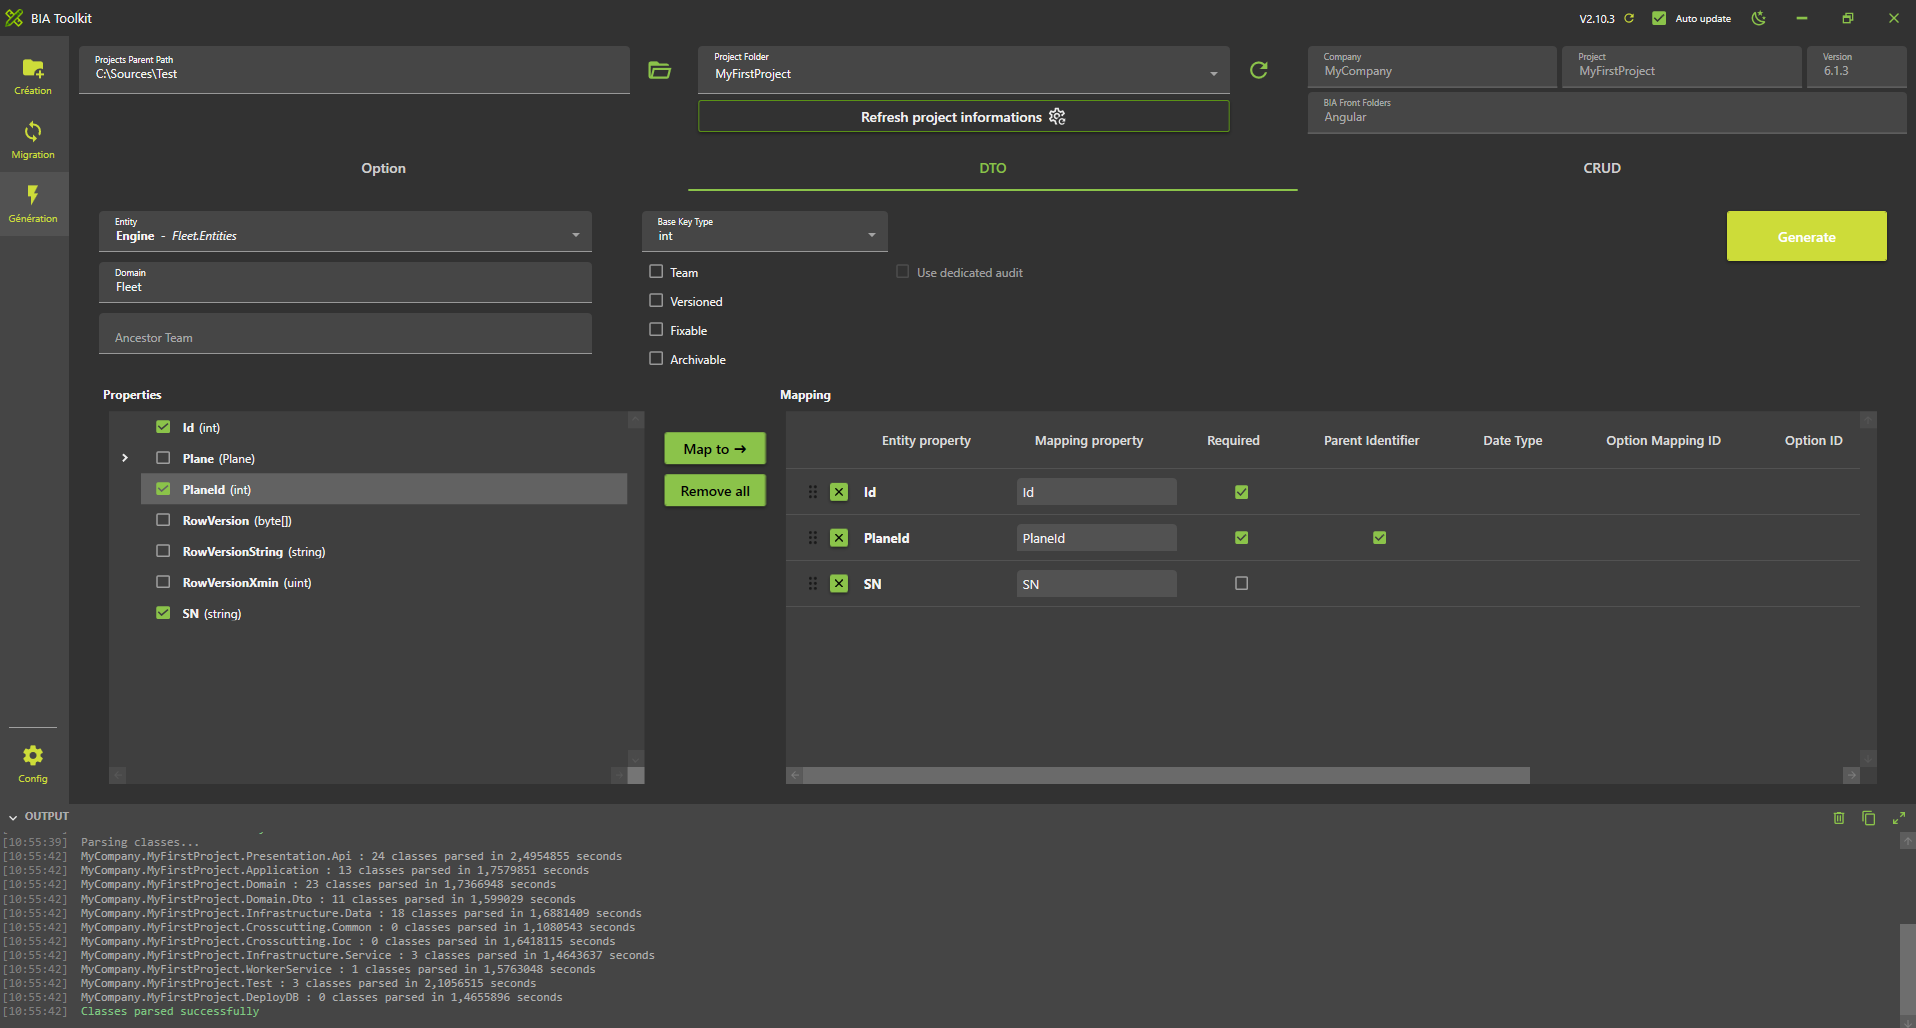
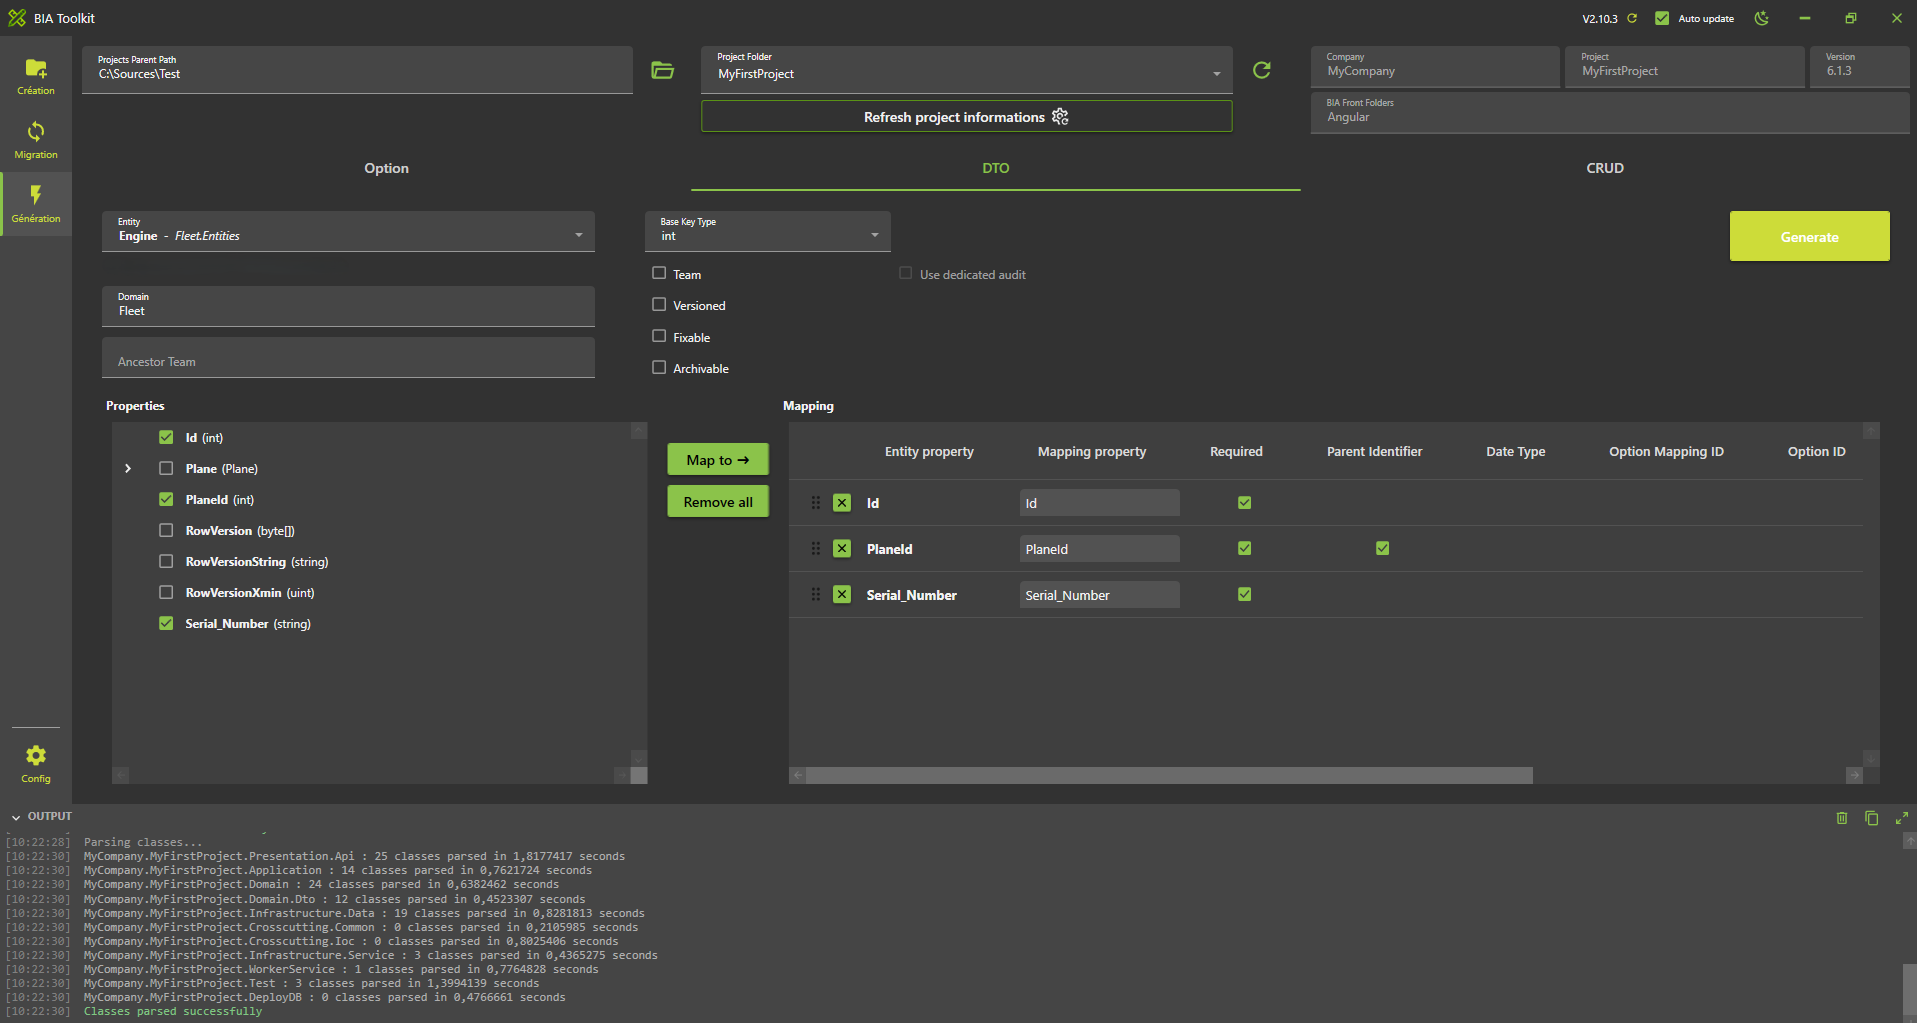
Update Create Engine Child

diff --git a/docs/10-Introduction/30-TryIt/80-CreateEngineChild.md b/docs/10-Introduction/30-TryIt/80-CreateEngineChild.md
@@ -41,7 +41,7 @@ namespace MyCompany.MyFirstProject.Domain.Fleet.Entities
         /// <summary>
         /// Gets or sets the engine serial number.
         /// </summary>
-        public string SN { get; set; }
+        public string Serial_Number { get; set; }
 
         /// <summary>
         /// Gets or sets the plane Id.
@@ -109,7 +109,7 @@ private static void CreateEngineModel(ModelBuilder modelBuilder)
 * In VSCode Run and Debug  "DotNet DeployDB"
 * Verify 'Engines' table is created in the database.
 
-![Verify_Table_Airports_Created](../../Images/GettingStarted/Verify_Table_Airports_Created.png)
+![Verify_Table_Engines_Created](../../Images/GettingStarted/Verify_Table_Engines_Created.png)
 
 
 ## Generate DTO
@@ -152,7 +152,7 @@ private static void CreateEngineModel(ModelBuilder modelBuilder)
     "edit": "Edit engine",
     "listOf": "List of engines",
     "plane": "Plane",
-    "sN": "Serial Number"
+    "serial_Number": "Serial Number"
   }
 ```
 
@@ -172,7 +172,7 @@ Open **'...\MyFirstProject\Angular\src\assets\i18n\app\es.json'** and add:
     "edit": "Editar motor",
     "listOf": "Lista de motores",
     "plane": "Avión",
-    "sN": "Número de serie"
+    "serial_Number": "Número de serie"
   }
 ```
 
@@ -191,7 +191,7 @@ Open **'...\MyFirstProject\Angular\src\assets\i18n\app\fr.json'** and add:
     "edit": "Modifier moteur",
     "listOf": "Liste des moteurs",
     "plane": "Avion",
-    "sN": "Numéro de série"
+    "serial_Number": "Numéro de série"
   }
 ```
 
@@ -200,7 +200,6 @@ Open **'...\MyFirstProject\Angular\src\assets\i18n\app\fr.json'** and add:
 * Launch `npm start` in Angular folder.
 * Go to *http://localhost:4200/*
 * Navigate to the plane list.
-* Select one plane (create one if needed) and click on the button "Engines":
-![Verify_Engine_CRUD_1](../../Images/GettingStarted/Verify_Engine_CRUD_1.png)
+* Select one plane (create one if needed) and click on the button "Engines"
 * You should access to the engines list of the plane.
-![Verify_Engine_CRUD_2](../../Images/GettingStarted/Verify_Engine_CRUD_2.png)
+![Verify_Engine_CRUD](../../Images/GettingStarted/Verify_Engine_CRUD.png)

diff --git a/docs/10-Introduction/30-TryIt/40-CreateAirlineTeam.md b/docs/10-Introduction/30-TryIt/40-CreateAirlineTeam.md
@@ -195,6 +195,14 @@ After the files are generated, there might be some errors. Follow the instructio
 
 Open your DotNet project solution in **'...\MyFirstProject\DotNet'** and complete the following files.
 
+##### TeamConfig.cs
+
+Add the following line in the configuration of the Airline team : 
+
+```csharp
+DisplayInHeader = true
+```
+
 ##### RoleId.cs
 
 * Go in **'MyCompany.MyFirstProject.Crosscutting.Common\Enum'** folder and open **RoleId.cs** file.
